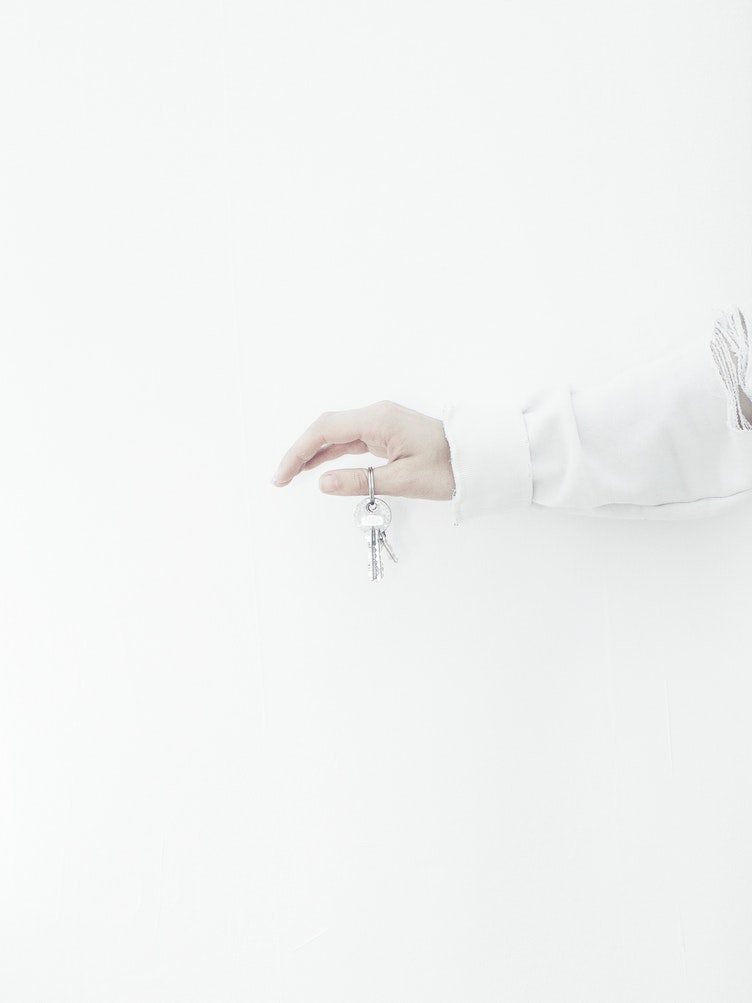
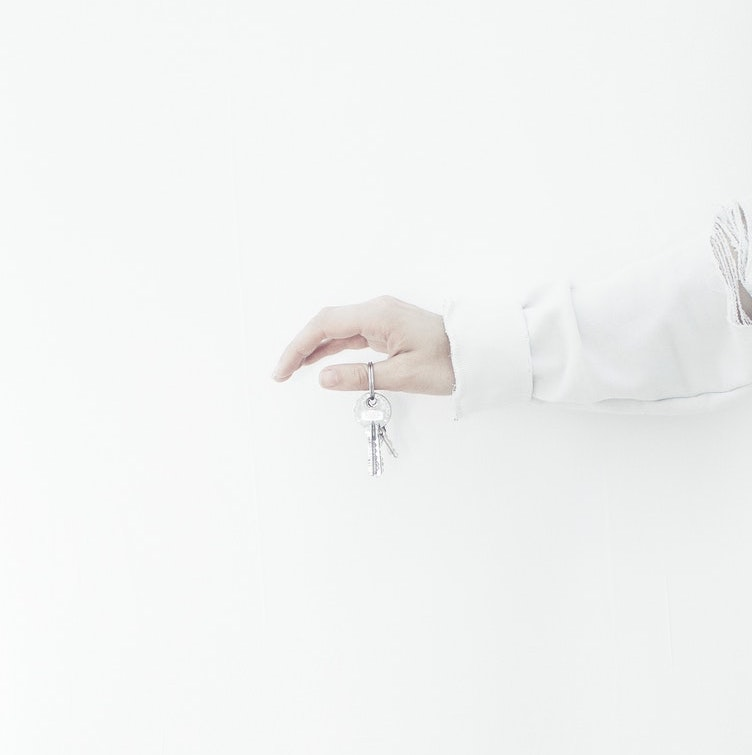
Squashed changes

Changed region(s): [[0.367, 0.4265, 0.6117, 0.6397], [0.9481, 0.2742, 1.0, 0.4265]]

diff --git a/index.html b/index.html
@@ -12,52 +12,43 @@
 </head>
 
 <body>
-	<div class="a">
+	<!-- Logo top left -->
 
-		<!-- Logo top left -->
+	<img class="logo" src="assets/img/logo.png" alt="">
 
-		<div class="logo">
-			<img class="logo" src="assets/img/logo.png" alt="">
-		</div>
+	<!-- Introduction -->
 
-		<!-- Introduction -->
+	<table>
+		<tr>
+			<td class="intro">
+				<h1>Renting in the city?<br>
+					How about you get a personal Fetchr-istant
+					to do all for you?<br>
+					The go-getters are coming soon.
+				</h1>
 
-		<div class="intro">
-			<br>
-			<br>
-			<br>
+				<!-- Subscribe -->
 
-			<h1>Renting in the city?
+				<div class="subscribe">
+					<p>Sign up to get notified and for special discounts</p>
+				</div>
 
-				<br>How about you get a personal Fetchr-istant
-				<br>to do all for you?
+				<div class="container">
+					<input style="border:none; margin: 1em; width: 70%; font-family: Avenir; font-size: 15px" type="text" placeholder="Email address" required>
+					<button class="click" type="submit" ?>Get Notified</button>
+					</form>
+				</div>
 
-				<br>The go-getters are coming soon. </h1>
-
-		</div>
-
-		<!-- Subscribe -->
-
-		<div class="subscribe">
-			<p>Sign up to get notified and for special discounts</p>
-		</div>
-
-		<div class="container">
-			<input style="border:none; margin:10px" type="text" placeholder="Email address" required>
-			<button class="click" type="submit" ?>Get Notified</button>
-			</form>
-		</div>
-
-		<div class="promise">
-			<p>We promise no spam</p>
-		</div>
-
-		<!-- Picture of key -->
-		<div class="key">
-			<img class="key" src="assets/img/key_white.jpeg" alt="" width="100">
-		</div>
-
-	</div>
+				<div class="promise">
+					<p>We promise no spam</p>
+				</div>
+			</td>
+			<td class="key">
+				<!-- Picture of key -->
+				<img class="keyimg" src="assets/img/key_white.jpeg" alt="">
+			</td>
+		</tr>
+	</table>
 </body>
 
 </html>

diff --git a/assets/css/comingsoon.css b/assets/css/comingsoon.css
@@ -1,10 +1,27 @@
 body {
-  width: 721px;
-  height: 800px;
   background-color: #FC4155; 
-  overflow-y: hidden;				/* Scroll bars disable */
+  overflow-y: hidden;
   overflow-x: hidden;
+  text-align: center;
   }
+
+table, th {
+  height: 100%;
+  width: 100%;
+}
+
+td.intro {
+  width: 50%;
+}
+
+td.key {
+  width: 50%;
+}
+
+.keyimg {
+  width: 100%;
+  height: auto;
+}
   
 .logo {
   height: 83px;
@@ -12,62 +29,56 @@ body {
 }
 
 .intro {
-  height: 300px;
-  width: 630px;
   color: #FFF;
   font-family: 'Avenir';
   font-size: 13px;
   font-weight: 30;
-  letter-spacing: 0.80px;
-  line-height: 35px;
-  margin: 10px;
 }
 
 .subscribe {
-  position: relative;
-  left: 10px;
-  height: 80px;
-  width: 582px;
   color: #FFF;
   font-family: 'Avenir';
   font-size: 25px;
   font-weight: 300;
-  letter-spacing: 0.83px;
-  line-height: 34px;
 }
 
 .container {
-  height: 35px;
-  width: 500px;
-  border-radius: 20px;
+  border-radius: 50px;
   background-color: #FFF;
   font-family: Avenir;
-  font-size: 22px;
-
+  min-width: auto;
+  max-width: 60%;
+  margin-left: auto;
+  margin-right: auto;
 }
   
  .click { 
-  width: 90px;
-  height: 30px;
-  border-radius: 15px;
+  border-radius: 50px;
+  font-family: Avenir;
+  font-size: 15px;
   background-color: #FC4155;
   border: solid #FC4155;
   color: #FFF;
 }
 
 .promise {
-  position: relative;
-  left: 60px;
-  height: 38px;
-  width: 220px;
   color: #FFF;
   font-family: 'Avenir';
-  font-size: 18px;
-  font-weight: 300;
-  letter-spacing: 0.67px;
-  line-height: 27px;
 }
 
-.key {
-  text-align: right;
+@media screen and (max-width: 600px){
+  .keyimg {
+      display: none;
+  }
+
+  td.key {
+    display: none;
+  }
+
+  table {
+    border-collapse: collapse;
+    box-sizing: border-box;
+    margin-left: auto;
+    margin-right: auto;
+  }
 }
